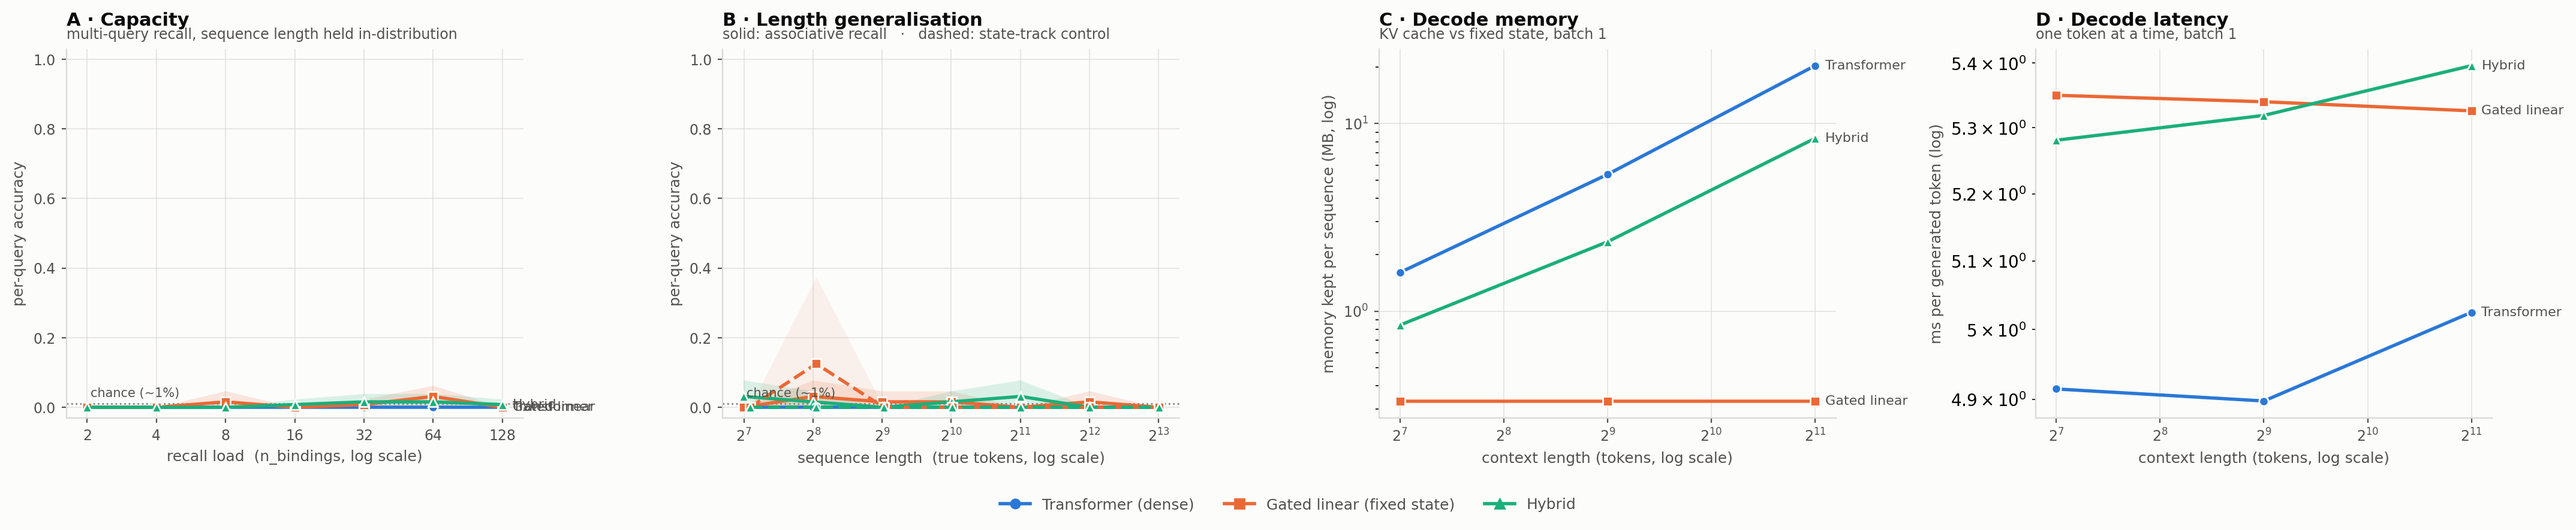
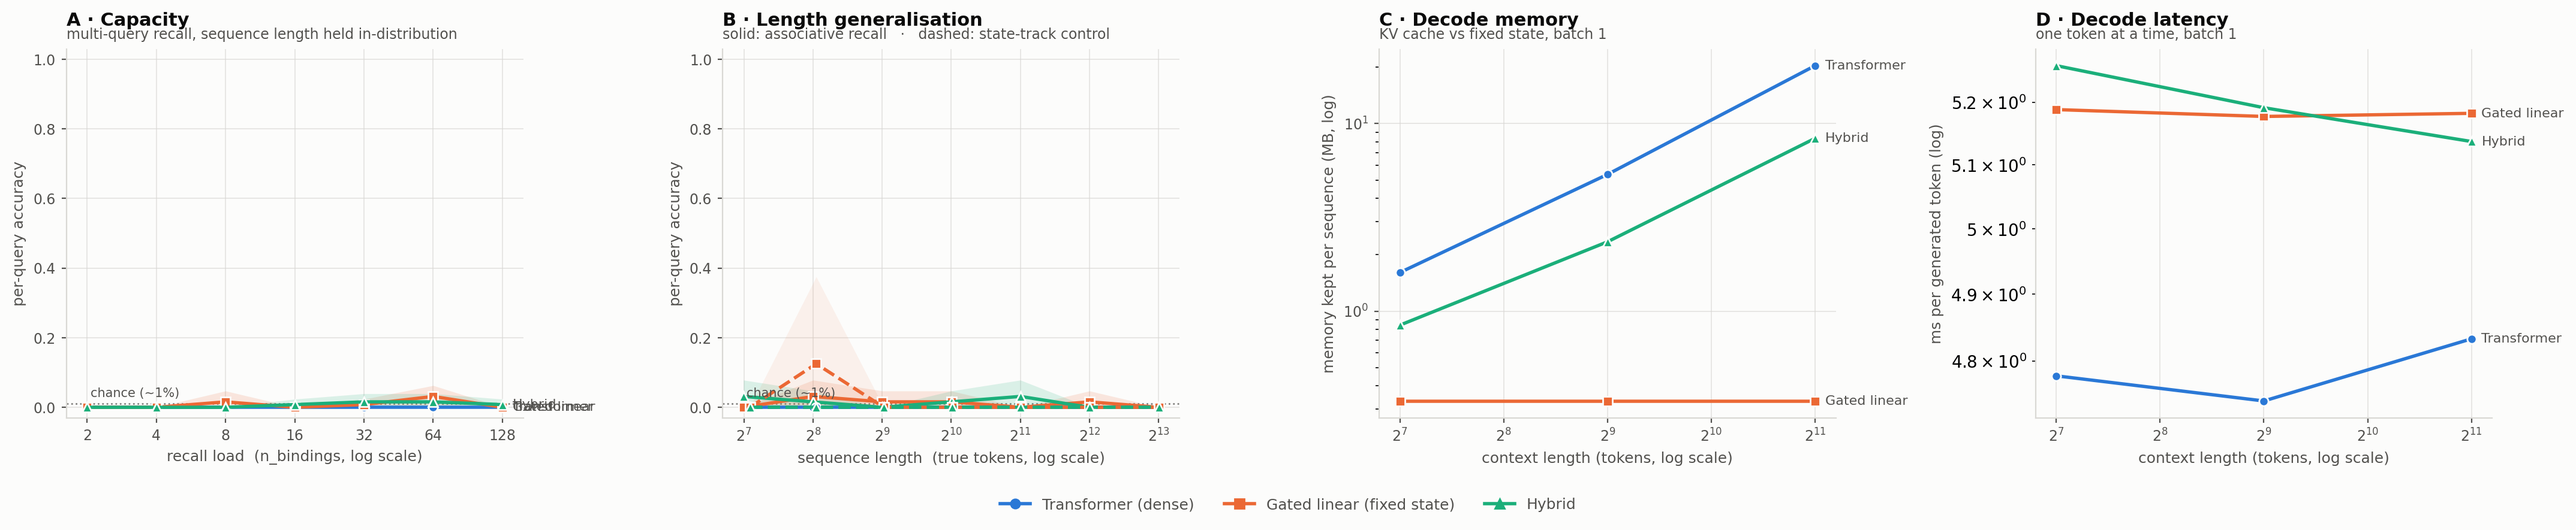
results: r06-smoke after plot

diff --git a/README.md b/README.md
@@ -4,7 +4,7 @@ Written automatically by `scripts/sync_results.py`. Never merge this branch into
 
 | run | updated | last stage | device | code |
 |---|---|---|---|---|
-| [r06-smoke](runs/r06-smoke/SUMMARY.md) | 2026-10-05 17:30 UTC | profile | Tesla T4 | `5026708` |
+| [r06-smoke](runs/r06-smoke/SUMMARY.md) | 2026-10-05 17:30 UTC | plot | Tesla T4 | `5026708` |
 | [r06](runs/r06/SUMMARY.md) | 2026-10-05 10:35 UTC | eval 4 | Tesla T4 | `a66cc35` |
 | [r05](runs/r05/SUMMARY.md) | 2026-10-04 06:33 UTC | plot | Tesla T4 | `e713514` |
 | [r05-smoke](runs/r05-smoke/SUMMARY.md) | 2026-10-04 06:26 UTC | plot | Tesla T4 | `e713514` |

diff --git a/runs/r06-smoke/SUMMARY.md b/runs/r06-smoke/SUMMARY.md
@@ -1,6 +1,6 @@
 # iota run `r06-smoke`
 
-- **updated:** 2026-10-05 17:30 UTC (last stage: `profile`)
+- **updated:** 2026-10-05 17:30 UTC (last stage: `plot`)
 - **code:** `5026708` on `claude/wonderful-ritchie-hbm5zn`
 - **device:** Tesla T4 · torch 2.10.0+cu128 · Kaggle Batch
 
